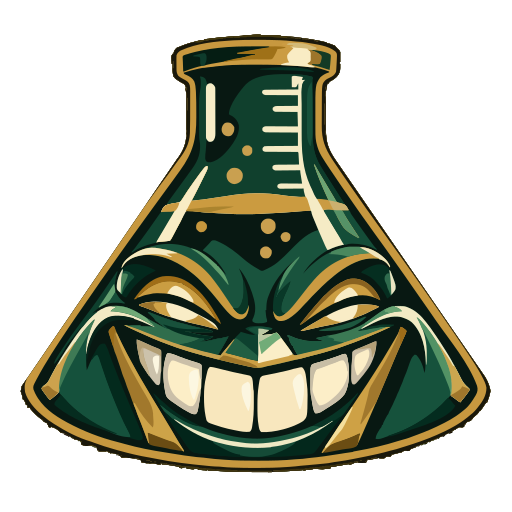
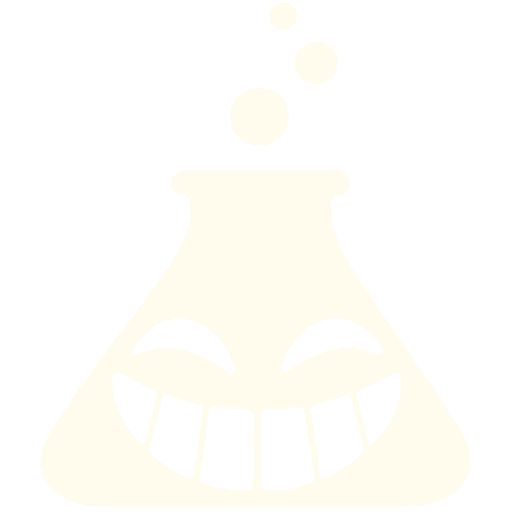
泡つき白抜きロゴとゴーヨクなラボの文字を反映

diff --git a/static/css/price-layout.css b/static/css/price-layout.css
@@ -2,9 +2,9 @@
 body.price-redesign{background:#101626;background-image:none;color:#eff3fb}
 .price-redesign> .wrap>header{display:flex;align-items:center;flex-wrap:wrap;gap:0 28px;padding:20px 0 0;text-align:left;border-bottom:1px solid #2b3549;margin-bottom:0}
 .price-redesign header h1{flex-shrink:0;margin-bottom:16px}
-.price-redesign .brand-header-inner{gap:9px}
-.price-redesign .brand-header-icon{height:64px;width:auto;mix-blend-mode:normal}
-.price-redesign .brand-wordmark{display:block;width:150px;height:auto}
+.price-redesign .brand-header-inner{gap:8px}
+.price-redesign .brand-header-icon{height:80px;width:auto;mix-blend-mode:normal}
+.price-redesign .brand-wordmark{display:block;width:170px;height:auto;transform:translateY(13px)}
 .price-redesign .brand-name{font-size:28px}
 .price-redesign .brand-g{color:#f3ce46}
 .price-redesign .brand-beta{font-size:10px}
@@ -105,8 +105,8 @@ body.price-redesign{background:#101626;background-image:none;color:#eff3fb}
  .price-redesign header h1{padding-right:90px}
  .price-redesign .mode-tabs .nav-wishlist{position:absolute;top:16px;right:0;min-height:40px;margin-left:0;padding:8px;border:1px solid #2b3549;border-radius:6px}
  .price-redesign .mode-tabs .nav-wishlist.active{border-color:#f3ce46}
- .price-redesign .brand-header-icon{height:52px}
- .price-redesign .brand-wordmark{width:125px}
+ .price-redesign .brand-header-icon{height:64px}
+ .price-redesign .brand-wordmark{width:125px;transform:translateY(10px)}
  .price-redesign .brand-name{font-size:25px}
  #mode-search .search input{font-size:16px;padding:8px}
  #mode-search .search button{padding-inline:16px}

diff --git a/static/sw.js b/static/sw.js
@@ -3,14 +3,14 @@ const CACHE_NAME = 'tcgym-v2';
 // tools/build_icons.py が画像と同時に更新する。
 // BEGIN GENERATED ICON URLS
 const ICON_ASSETS = {
-  "favicon.svg": "/static/favicon.svg?v=0d4cc4b87961",
-  "favicon-16.png": "/static/favicon-16.png?v=d45345f116e2",
-  "favicon-32.png": "/static/favicon-32.png?v=b619000e1e4d",
-  "apple-touch-icon.png": "/static/apple-touch-icon.png?v=ca29e44036fa",
-  "icon-192.png": "/static/icon-192.png?v=4466b14bb557",
-  "icon-512.png": "/static/icon-512.png?v=29c3611bc290",
-  "icon-maskable-192.png": "/static/icon-maskable-192.png?v=3cce105e1c71",
-  "icon-maskable-512.png": "/static/icon-maskable-512.png?v=0231e5a1dd30"
+  "favicon.svg": "/static/favicon.svg?v=fa7045b16f27",
+  "favicon-16.png": "/static/favicon-16.png?v=68b680ef4ea1",
+  "favicon-32.png": "/static/favicon-32.png?v=e4088de017bd",
+  "apple-touch-icon.png": "/static/apple-touch-icon.png?v=aadc6a25daeb",
+  "icon-192.png": "/static/icon-192.png?v=9bc4437210b3",
+  "icon-512.png": "/static/icon-512.png?v=72a3a3cc4626",
+  "icon-maskable-192.png": "/static/icon-maskable-192.png?v=cb34074212e0",
+  "icon-maskable-512.png": "/static/icon-maskable-512.png?v=5e3a4edff564"
 };
 // END GENERATED ICON URLS
 const PRECACHE = Object.values(ICON_ASSETS);

diff --git a/static/solitaire/css/replays-page.css b/static/solitaire/css/replays-page.css
@@ -35,7 +35,7 @@ body {
   text-decoration: none;
   color: var(--main-color);
 }
-.rp-brand-icon { height: 52px; width: auto; display: block; }
+.rp-brand-icon { height: 64px; width: auto; display: block; }
 .rp-brand-name { display: inline-flex; align-items: flex-end; font-family: 'Bungee', sans-serif; font-size: 22px; line-height: 1; }
 .rp-brand-g { color: var(--gold); font-size: 1.28em; }
 .rp-back {
@@ -286,6 +286,6 @@ a:focus-visible, button:focus-visible { outline: 2px solid var(--gold); outline-
 .rp-row-actions { margin-left: auto; }
 .rp-row-title { min-width: 0; }
 
-.rp-brand-name-image { width:125px; height:auto; display:block; }
+.rp-brand-name-image { width:125px; height:auto; display:block; transform:translateY(10px); }
 
 @media (max-width:600px) { .rp-header { flex-wrap:wrap; } }

diff --git a/templates/index.html b/templates/index.html
@@ -769,8 +769,7 @@ window.RARITY_CONFIG = {{ rarity_config_json | safe }};
       <a href="/" class="brand-header-link" aria-label="強欲なラボ トップ">
         <div class="brand-header-inner">
           <img src="{{ static_url('brand/symbol-C.png') }}" alt="" class="brand-header-icon" width="128" height="128" fetchpriority="high">
-          <img src="{{ static_url('brand/wordmark-A.svg') }}" alt="強欲なラボ" class="brand-wordmark" width="1967" height="610">
-          <span class="brand-beta">β</span>
+          <img src="{{ static_url('brand/wordmark-A.svg') }}" alt="強欲なラボ" class="brand-wordmark" width="1004" height="151">
         </div>
       </a>
     </h1>

diff --git a/templates/solitaire.html b/templates/solitaire.html
@@ -82,7 +82,7 @@
       <div class="sol-sidebar-head">
       <a href="/" class="sol-nav-title">
         <img src="{{ static_url('brand/symbol-C.png') }}" alt="" class="nav-icon" width="128" height="128">
-        <img src="{{ static_url('brand/wordmark-A.svg') }}" alt="強欲なラボ" class="nav-brand-image" width="1967" height="610">
+        <img src="{{ static_url('brand/wordmark-A.svg') }}" alt="強欲なラボ" class="nav-brand-image" width="1004" height="151">
       </a>
       <!-- ロゴ行の右端に左サイドバー開閉ボタン（畳んだ時は #solRailLeft が画面端に残る） -->
       <button id="sidebarToggleLeft" type="button"

diff --git a/templates/solitaire_replays.html b/templates/solitaire_replays.html
@@ -36,7 +36,7 @@
   <header class="rp-header">
     <a href="/" class="rp-brand" aria-label="強欲なラボ トップへ">
       <img src="{{ static_url('brand/symbol-C.png') }}" alt="" class="rp-brand-icon" width="128" height="128">
-      <img src="{{ static_url('brand/wordmark-A.svg') }}" alt="強欲なラボ" class="rp-brand-name-image" width="1967" height="610">
+      <img src="{{ static_url('brand/wordmark-A.svg') }}" alt="強欲なラボ" class="rp-brand-name-image" width="1004" height="151">
     </a>
     <a href="/solitaire" class="rp-back">&larr; シミュレーターに戻る</a>
   </header>

diff --git a/static/solitaire/css/solitaire-brand.css b/static/solitaire/css/solitaire-brand.css
@@ -779,7 +779,7 @@ html, body {
   isolation: isolate;
 }
 .sol-nav-title .nav-icon {
-  height: 36px;
+  height: 44px;
   width: auto;
   display: block;
   mix-blend-mode: normal;
@@ -1985,4 +1985,4 @@ a.replay-btn { display: inline-block; text-decoration: none; }
 .sol-replay-start-later:hover { color: var(--main-color); }
 
 /* 狭いサイドバーに合わせた共通ブランド素材。 */
-.sol-nav-title .nav-brand-image { width:96px; height:auto; display:block; }
+.sol-nav-title .nav-brand-image { width:88px; height:auto; display:block; transform:translateY(7px); }

diff --git a/tools/build_icons.py b/tools/build_icons.py
@@ -178,12 +178,12 @@ def build_og_image():
     logo = Image.new('RGBA', (1024, 200))
     logo.alpha_composite(symbol.resize((200, 200), Image.Resampling.LANCZOS), (0, 0))
     fitted = ImageOps.contain(word, (800, 200), Image.Resampling.LANCZOS)
-    logo.alpha_composite(fitted, (224, (200 - fitted.height) // 2))
+    logo.alpha_composite(fitted, (224, (200 - fitted.height) // 2 + 30))
     logo.save(STATIC / 'og-logo.png', optimize=True)
     canvas = Image.new('RGBA', (1200, 630), theme_background())
     canvas.alpha_composite(symbol.resize((400, 400), Image.Resampling.LANCZOS), (60, 115))
     fitted = ImageOps.contain(word, (650, 300), Image.Resampling.LANCZOS)
-    canvas.alpha_composite(fitted, (490, (630 - fitted.height) // 2))
+    canvas.alpha_composite(fitted, (490, (630 - fitted.height) // 2 + 60))
     canvas.convert('RGB').save(STATIC / 'og-image.png', optimize=True)
 
 

diff --git a/replay_og_image.py b/replay_og_image.py
@@ -494,7 +494,7 @@ def render_replay_og(board: dict, title: str = "") -> tuple:
 # ── キャッシュ・生成の入口 ──
 
 _REPLAY_ID_RE = re.compile(r"[A-Za-z0-9_-]{6,16}")   # secrets.token_urlsafe(8) は11文字
-_OG_CACHE_DIR = os.path.join(tempfile.gettempdir(), "cardprice_replay_og_v4")   # 見た目を変えたらバージョンを上げる（古い画像を使わない）
+_OG_CACHE_DIR = os.path.join(tempfile.gettempdir(), "cardprice_replay_og_v5")   # 見た目を変えたらバージョンを上げる（古い画像を使わない）
 os.makedirs(_OG_CACHE_DIR, exist_ok=True)
 
 # 同時描画数の上限（メモリ保護。本番は gunicorn 1ワーカー・8スレッドで約330MB常用）。

diff --git a/tests/test_icons.py b/tests/test_icons.py
@@ -41,7 +41,8 @@ def test_icon_size_and_background(name, size, transparent):
             assert icon.mode == 'RGBA'
             alpha = icon.getchannel('A')
             assert alpha.getextrema() == (0, 255)
-            assert all(alpha.getpixel(pos) == 0 for pos in
+            # 縮小補間の端に残る1/255の透明度は許容する。
+            assert all(alpha.getpixel(pos) <= 1 for pos in
                        [(0, 0), (size - 1, 0), (0, size - 1), (size - 1, size - 1)])
         else:
             assert icon.mode == 'RGB'

diff --git a/tests/test_solitaire_og.py b/tests/test_solitaire_og.py
@@ -721,7 +721,7 @@ def test_fetch_count_upper_bound_is_26(env, fake_fetch):
 def test_cache_dir_is_versioned():
     """見た目を変えたら古い画像を使わないよう、ディスクキャッシュのディレクトリ名にバージョンを入れている"""
     import replay_og_image
-    assert os.path.basename(replay_og_image._OG_CACHE_DIR) == "cardprice_replay_og_v4"
+    assert os.path.basename(replay_og_image._OG_CACHE_DIR) == "cardprice_replay_og_v5"
 
 
 def test_zone_icons_exist():

diff --git a/card_og_image.py b/card_og_image.py
@@ -30,7 +30,7 @@ from deck_image import _get_font
 logger = logging.getLogger(__name__)
 
 W, H = 1200, 630
-DESIGN_VERSION = "v2"   # 見た目を変えたら上げる（古い画像を使わない）
+DESIGN_VERSION = "v3"   # 見た目を変えたら上げる（古い画像を使わない）
 SETTING_KEY = "OG_BLUR_NO_REPOST"
 
 # ── 配色（replay_og_image と og-solitaire.png に合わせる）──
